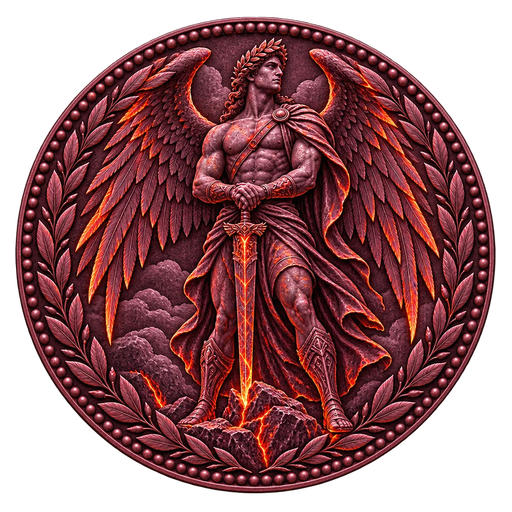
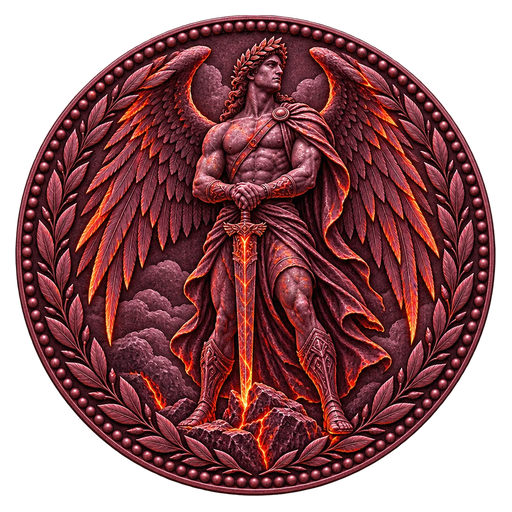
fix: écussons redressés au cercle vrai, diamètre identique
Les hauteurs coïncidaient mais pas les largeurs : de 458 à 481 px, soit 4,8 %
d'écart, Zeus étant le plus étroit avec 23 px de moins qu'Héraclès. Les rangs
se succédant au même emplacement du tableau de bord, l'image aurait semblé
« respirer » à chaque promotion.

La cause est en amont : les médaillons sortent du générateur ovales de 3 à
5 %, faute d'un cadre carré — et le texte du prompt ne rattrape pas un réglage
de format. Le script préservait ces proportions, propageant donc l'erreur.

Il redresse désormais au cercle vrai par une mise à l'échelle non uniforme.
L'étirement demandé reste sous 5 %, imperceptible sur les figures, et les
sources restent intactes dans docs/ecussons-source/.

Les cinq écussons mesurent maintenant 481 x 481 px, à 0,8 % près en aire.

diff --git a/scripts/normaliser-ecussons.py b/scripts/normaliser-ecussons.py
@@ -5,9 +5,11 @@ moins rogné — et avec une bordure plus ou moins épaisse. Servis tels quels, 
 sembleraient « respirer » à chaque promotion, puisqu'ils se succèdent au même
 emplacement du tableau de bord.
 
-Le traitement recadre chacun sur son médaillon, le centre dans un carré et le
-sort à taille fixe. Les fonds étant déjà transparents en sortie de génération,
-il n'y a pas de détourage à faire.
+Le traitement recadre chacun sur son médaillon, le redresse au cercle vrai et
+le sort à taille fixe : les cinq premiers écussons arrivaient ovales de 3 à
+5 %, ce qui donnait jusqu'à 23 px d'écart de diamètre entre deux rangs. Les
+fonds étant déjà transparents en sortie de génération, il n'y a pas de
+détourage à faire.
 
     python scripts/normaliser-ecussons.py [--contraste 5-elyseen=1.25]
 """
@@ -49,17 +51,16 @@ def normaliser(chemin: str, contraste: float) -> tuple[str, int, int]:
         rvb = ImageEnhance.Contrast(medaillon.convert("RGB")).enhance(contraste)
         medaillon = Image.merge("RGBA", (*rvb.split(), medaillon.split()[3]))
 
-    # Carré à partir du plus grand côté : un médaillon légèrement ovale garde
-    # ses proportions plutôt que d'être étiré au cercle parfait.
-    cote = max(medaillon.size)
-    carre = Image.new("RGBA", (cote, cote), (0, 0, 0, 0))
-    carre.paste(
-        medaillon,
-        ((cote - medaillon.width) // 2, (cote - medaillon.height) // 2),
-    )
-
+    # Mise au cercle vrai, par une mise à l'échelle non uniforme.
+    #
+    # Les médaillons sortent du générateur ovales de 3 à 5 % — un cadre non
+    # carré, que le texte du prompt ne rattrape pas. Préserver ces proportions
+    # reviendrait à propager l'erreur, et les rangs n'auraient pas tous le même
+    # diamètre : l'image semblerait « respirer » à chaque promotion, puisqu'ils
+    # se succèdent au même emplacement. On redresse donc au cercle. L'étirement
+    # reste sous 5 %, invisible sur les figures, et les sources sont conservées.
     interieur = round(TAILLE * OCCUPATION)
-    carre = carre.resize((interieur, interieur), Image.LANCZOS)
+    carre = medaillon.resize((interieur, interieur), Image.LANCZOS)
 
     final = Image.new("RGBA", (TAILLE, TAILLE), (0, 0, 0, 0))
     marge = (TAILLE - interieur) // 2
@@ -95,10 +96,11 @@ def main() -> None:
         image.save(os.path.join(SORTIE, f"{slug}.png"), optimize=True)
         image.save(os.path.join(SORTIE, f"{slug}.webp"), quality=92, method=6)
 
-        # Un rapport loin de 1 signale un médaillon ovale : il gardera ses
-        # proportions, mais paraîtra plus petit que les autres.
+        # Ovalité de la **source**, reportée à titre indicatif : elle est
+        # redressée à la mise à l'échelle. Au-delà de 8 %, mieux vaut
+        # régénérer que d'étirer.
         ovalite = larg / haut
-        alerte = "  <- ovale" if abs(ovalite - 1) > 0.03 else ""
+        alerte = "  <- source ovale, redressée" if abs(ovalite - 1) > 0.03 else ""
         print(f"{slug:<16} {larg}x{haut:<9} {ovalite:>8.3f}{alerte}")
 
     print(f"\n{len(fichiers)} écussons -> {SORTIE} ({TAILLE}px, PNG + WebP)")
